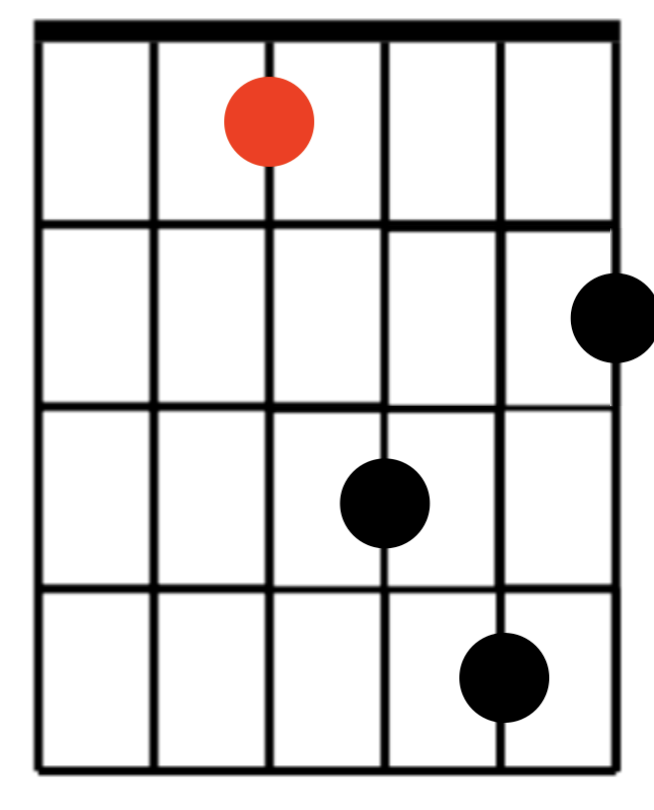
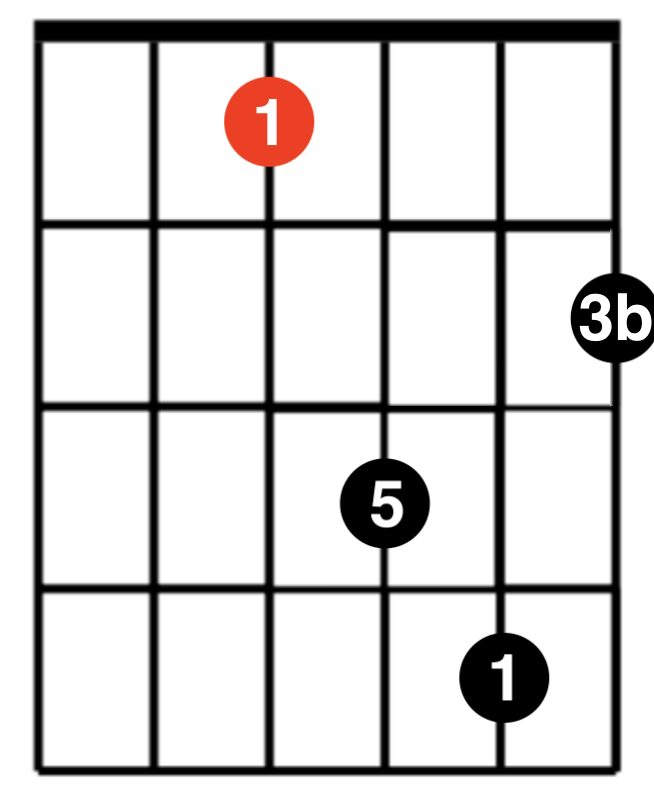
update

diff --git a/03_Calculate_Chord/README.md b/03_Calculate_Chord/README.md
@@ -1,9 +1,12 @@
 # 计算和弦
 
-| 根音在几弦 | 指型 | Major                                                | Minor                                                |
-| ---------- | ---- | ---------------------------------------------------- | ---------------------------------------------------- |
-| 6          | E    | ![](../images/calculate_chord/6_major_pattern_e.png) | ![](../images/calculate_chord/6_minor_pattern_e.png) |
-| 5          | A    | ![](../images/calculate_chord/5_major_pattern_a.png) | ![](../images/calculate_chord/5_minor_pattern_a.png) |
-| 5          | C    | ![](../images/calculate_chord/5_major_pattern_c.png) |                                                      |
-| 4          | F    | ![](../images/calculate_chord/4_major_pattern_f.png) | ![](../images/calculate_chord/4_minor_pattern_f.png) |
-| 4          | D    | ![](../images/calculate_chord/4_major_pattern_d.png) | ![](../images/calculate_chord/4_minor_pattern_d.png) |
+| 根音在几弦 | 指型  | Major                                                | Minor                                                |
+| ---------- | ----- | ---------------------------------------------------- | ---------------------------------------------------- |
+| 6          | E     | ![](../images/calculate_chord/6_major_pattern_e.png) | ![](../images/calculate_chord/6_minor_pattern_e.png) |
+| 5          | A     | ![](../images/calculate_chord/5_major_pattern_a.png) | ![](../images/calculate_chord/5_minor_pattern_a.png) |
+| 5          | C     | ![](../images/calculate_chord/5_major_pattern_c.png) |                                                      |
+| 4          | F     | ![](../images/calculate_chord/4_major_pattern_f.png) | ![](../images/calculate_chord/4_minor_pattern_f.png) |
+| 4          | D     | ![](../images/calculate_chord/4_major_pattern_d.png) | ![](../images/calculate_chord/4_minor_pattern_d.png) |
+| 3          | 简易A | ![](../images/calculate_chord/3_major.png)           | ![](../images/calculate_chord/3_minor.png)           |
+| 2          | 简易D | ![](../images/calculate_chord/2_major.png)           | ![](../images/calculate_chord/2_minor.png)           |
+| 1          | 简易F | ![](../images/calculate_chord/1_major.png)           | ![](../images/calculate_chord/1_minor.png)           |
